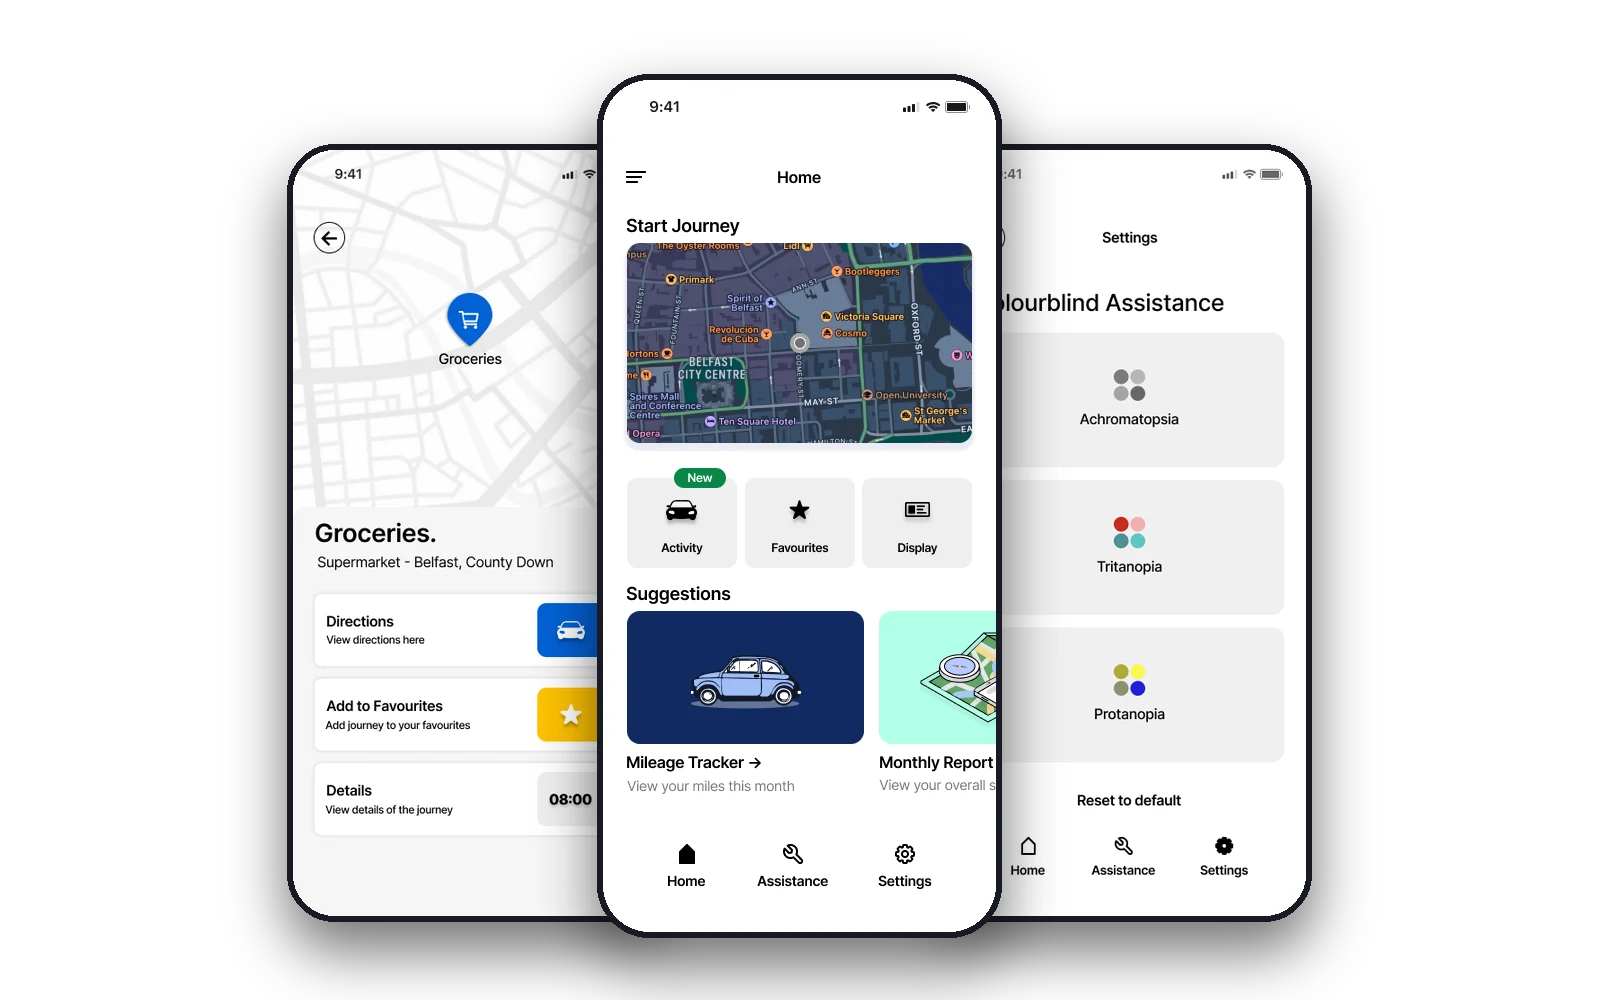
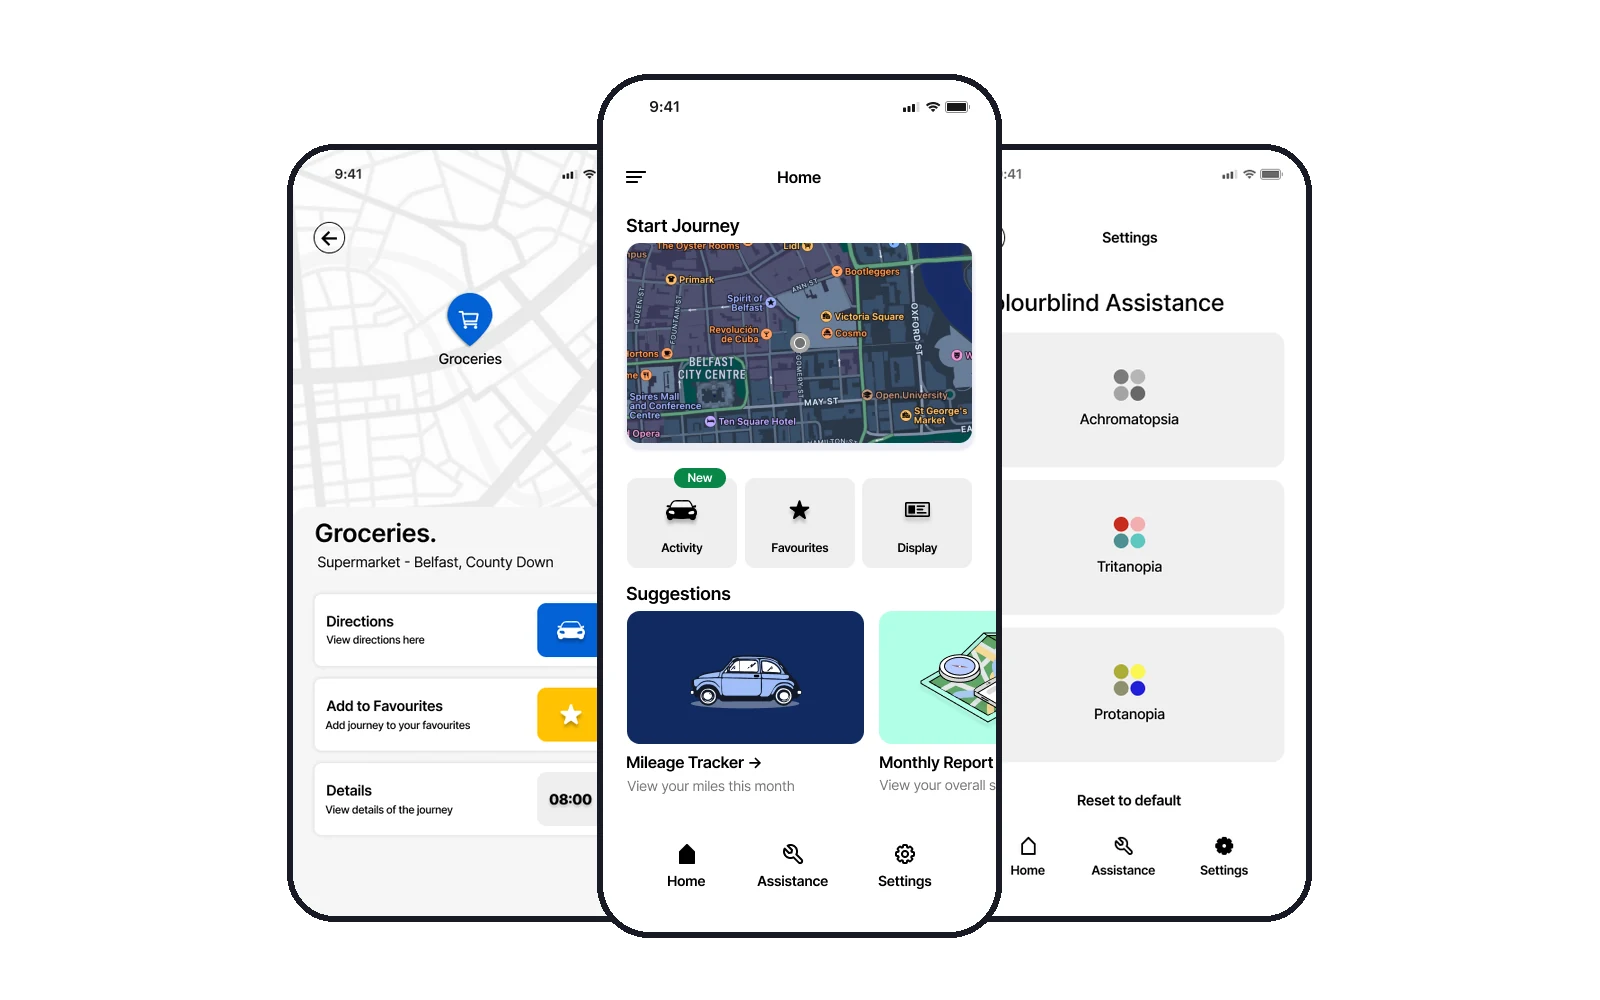
orbit hero: no shadow, light Together-style wash with pink tinge, zoom on hover

Changed region(s): [[0.1562, 0.093, 0.8438, 1.0]]

diff --git a/index.html b/index.html
@@ -18,7 +18,7 @@
   <link rel="preconnect" href="https://fonts.googleapis.com">
   <link rel="preconnect" href="https://fonts.gstatic.com" crossorigin>
   <link rel="stylesheet" href="https://fonts.googleapis.com/css2?family=Manrope:wght@200..800&display=swap">
-  <link rel="stylesheet" href="css/styles.css?v=20260926k">
+  <link rel="stylesheet" href="css/styles.css?v=20260926l">
   <script src="js/main.js?v=20260925a" defer></script>
 </head>
 <body id="top">
@@ -91,7 +91,7 @@
 
       <article class="project project--feature">
         <a class="project__link" href="orbit.html">
-          <div class="media media--orbit project__media">
+          <div class="media media--orbit-hero media--zoom project__media">
             <img class="media__img" src="images/orbit-hero.webp" alt="" onerror="this.remove()">
           </div>
           <div class="project__text">

diff --git a/css/styles.css b/css/styles.css
@@ -1585,3 +1585,9 @@ html:not(.js) .wordmark__pen,
 .media--together .pending__band { background: #4c5fd9; border-color: #fff; }
 .media--together .pending__set span::after { color: #fff; }
 
+
+/* orbit hero and card: the Together placeholder wash with a tinge of pink */
+.media--orbit-hero { background: linear-gradient(135deg, #eef0fc 0%, #e4e7fb 55%, #fbe3f1 100%); }
+.project__link:hover .media--orbit-hero .media__img,
+.project__link:focus-visible .media--orbit-hero .media__img,
+.cs-hero-media .media--orbit-hero:hover .media__img { transform: scale(1.09); }

diff --git a/orbit.html b/orbit.html
@@ -76,7 +76,7 @@
 
   <div class="wrap cs-hero-media">
     <figure>
-      <div class="media media--orbit">
+      <div class="media media--orbit-hero media--zoom">
         <div class="media__art art-orbit" aria-hidden="true">
             <svg viewBox="0 0 400 500" preserveAspectRatio="xMidYMid slice">
               <g fill="none" stroke="#fff" stroke-opacity="0.09" stroke-width="1.5"><circle cx="200" cy="250" r="90"/><circle cx="200" cy="250" r="150"/><circle cx="200" cy="250" r="210"/></g>
